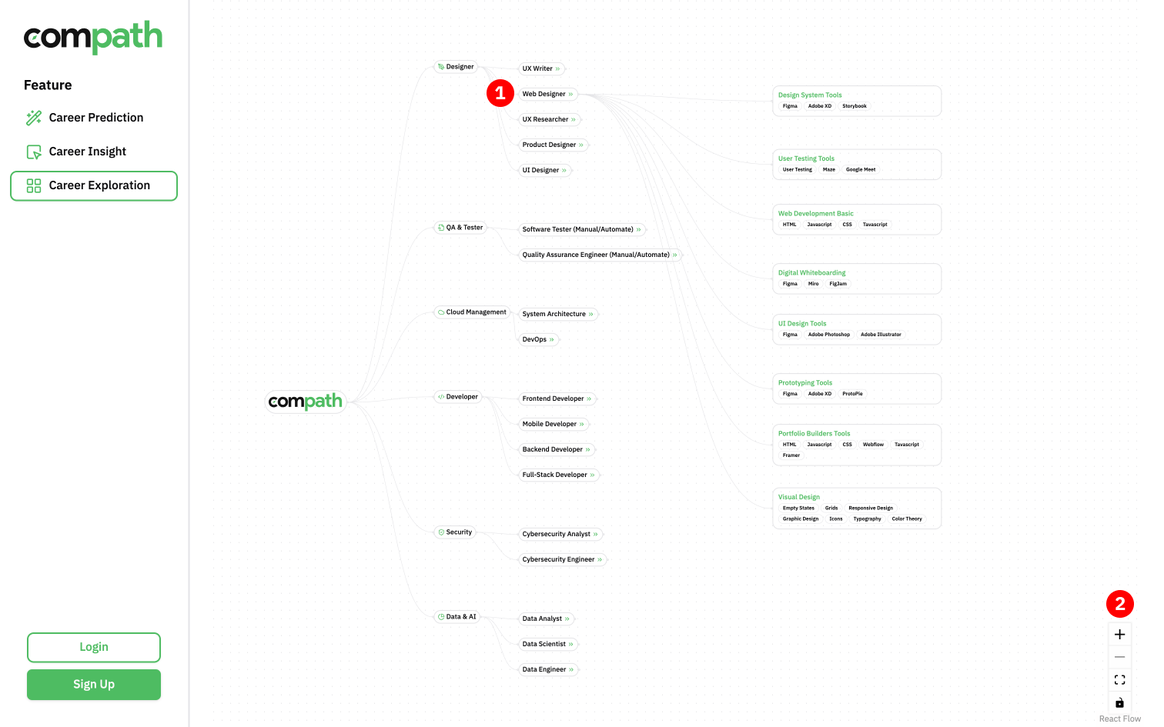
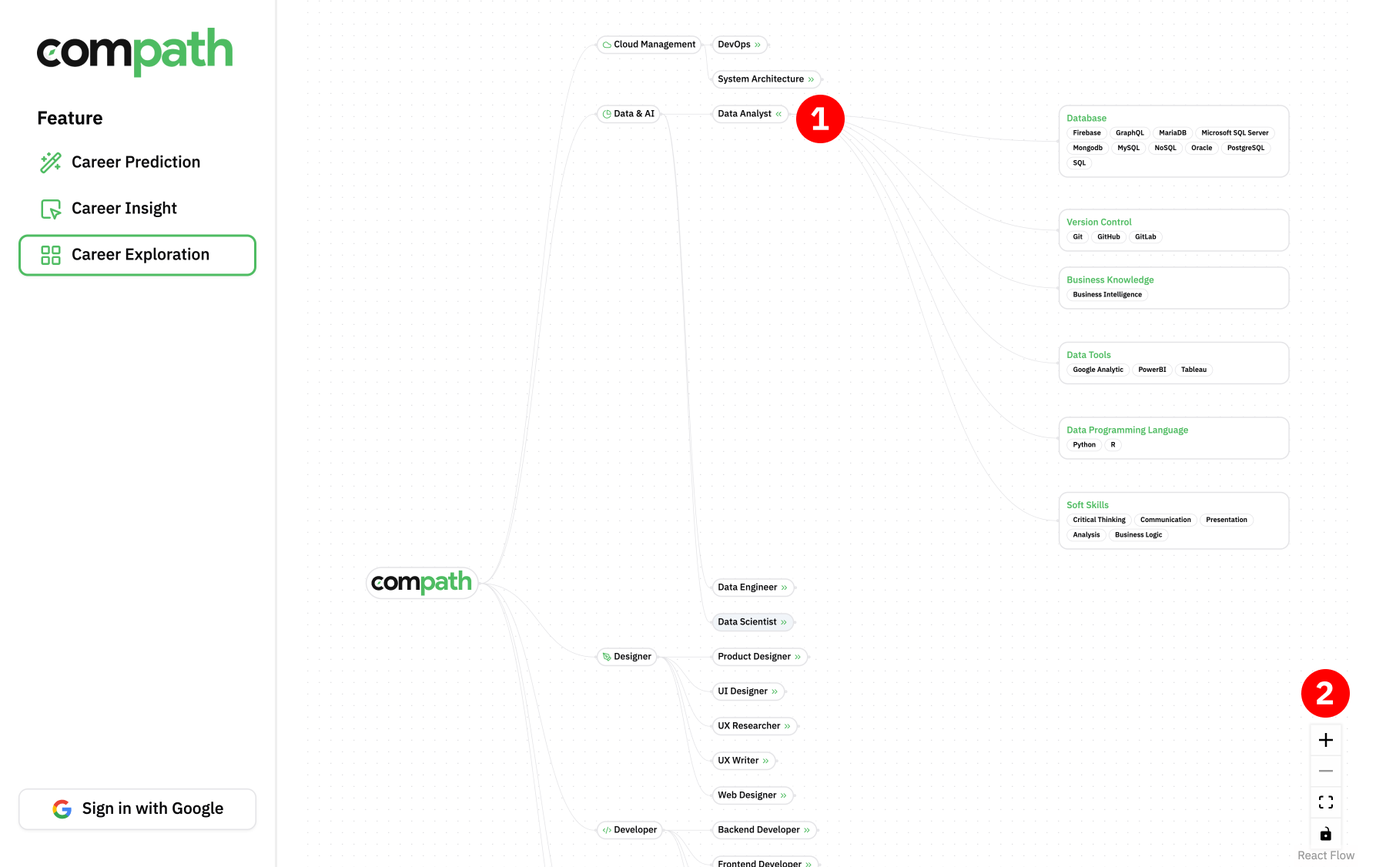
UT and TU

diff --git a/sections/usabilityTesting.tex b/sections/usabilityTesting.tex
@@ -121,7 +121,49 @@
               \fbox{\includegraphics[width=14cm]{./figure/UT/ScriptUT.png}}
               \caption{รูปแสดงบทพูดสำหรับการดำเนินการทดสอบ}\label{fig:ScriptUT}
           \end{figure}
-    \item \textbf{การวัดผลเชิงปริมาณ} : \href{https://forms.gle/cRmAQGtgpfCHbK5u8}{แบบสอบถามเพื่อวัดผลเชิงปริมาณ}
+    \item \textbf{การวัดผลเชิงปริมาณ} การวัดผลเชิงปริมาณมีผู้เข้าร่วมการประเมินทั้งหมด 70 คน แบ่งเป็นแต่ละชั้นปี ดังรูป \ref{fig:UserRatio}  โดยผู้เข้ารวมการประเมินได้ทดลองใช้งานเว็บแอปพลิเคชันและทำ\href{https://forms.office.com/r/CRHVxtCC4t}{แบบสอบถามเพื่อวัดผลเชิงปริมาณ}
+    \begin{figure}[H]\centering
+        \fbox{\includegraphics[width=14cm]{./figure/UT/UserRatio.png}}
+        \caption{รูปแสดงจำนวนและอัตรส่วนผู้เข้าร่วมการประเมิน}\label{fig:UserRatio}
+    \end{figure}
+    \begin{table}[H]
+            \caption{ตารางแสดงจำนวนและอัตราส่วนของผู้เข้าร่วมการประเมิน}
+            \label{tab:UserRatio}
+            \begin{tabular}{|l|r|r|}
+            \hline
+            \textbf{ปีการศึกษา} & \multicolumn{1}{l|}{\textbf{จำนวนผู้เข้าร่วมการประเมิน}} & \multicolumn{1}{l|}{\textbf{อัตรส่วนร้อยละ}} \\ \hline
+            ปี 1                & 6                                                          & 8.57\%                                         \\ \hline
+            ปี 2                & 18                                                         & 25.71\%                                         \\ \hline
+            ปี 3                & 15                                                         & 21.43\%                                         \\ \hline
+            ปี 4                & 22                                                         & 31.43\%                                         \\ \hline
+            อื่น ๆ              & 9                                                          & 12.86\%                                         \\ \hline
+            \end{tabular}
+        \end{table}
+        \par{ซึ่งได้ผลลัพท์การประเมินออกมาดังภาพ \ref{fig:QuantitativeResult} โดยมีเกณฑ์การประเมิน คือ [1 - ไม่เห็นด้วยอย่างยิ่ง, 5 - เห็นด้วยอย่างยิ่ง]}
+        \begin{figure}[H]\centering
+            \fbox{\includegraphics[width=14cm]{./figure/UT/QuantitativeResult.png}}
+            \caption{รูปแสดงผลลัพธ์การประเมินเว็บแอปพลิเคชัน Compath}\label{fig:QuantitativeResult}
+        \end{figure}
+        โดยนำคะแนนในแต่ละหัวข้อการประเมินมาเฉลี่ย โดยมีคะแนนเต็มอยู่ที่ 5 ดังตาราง ได้ดังนี้
+        \begin{table}[H]
+            \caption{ตารางแสดงผลลัพธ์การประเมินเว็บแอปพลิเคชัน Compath}
+            \label{tab:QuantitativeResult}
+            \begin{tabular}{|l|rrrrr|r|}
+            \hline
+            \multicolumn{1}{|c|}{\multirow{2}{*}{\textbf{หัวข้อการประเมิน}}}                                                          & \multicolumn{5}{c|}{\textbf{อัตราส่วนการให้คะแนน}}                                                                                                                      & \multicolumn{1}{c|}{\multirow{2}{*}{\textbf{คะแนนเฉลี่ย}}} \\ \cline{2-6}
+            \multicolumn{1}{|c|}{}                                                                                                    & \multicolumn{1}{c|}{\textbf{1}} & \multicolumn{1}{c|}{\textbf{2}} & \multicolumn{1}{c|}{\textbf{3}} & \multicolumn{1}{c|}{\textbf{4}} & \multicolumn{1}{c|}{\textbf{5}} & \multicolumn{1}{c|}{}                                      \\ \hline
+            เว็บไซต์นี้ใช้งานง่าย                                                                                                     & \multicolumn{1}{r|}{0\%}          & \multicolumn{1}{r|}{0\%}          & \multicolumn{1}{r|}{5.7\%}        & \multicolumn{1}{r|}{22.9\%}       & 71.4\%                            & 4.66                                                       \\ \hline
+            เว็บไซต์นี้ง่ายต่อการเข้าถึงข้อมูลต่าง ๆ                                                                                  & \multicolumn{1}{r|}{0\%}          & \multicolumn{1}{r|}{0\%}          & \multicolumn{1}{r|}{5.7\%}        & \multicolumn{1}{r|}{35.7\%}       & 58.6\%                            & 4.51                                                       \\ \hline
+            ข้อมูลต่าง ๆ บนเว็บไซต์นี้ดูมีความน่าเชื่อถือ                                                                             & \multicolumn{1}{r|}{0\%}          & \multicolumn{1}{r|}{1.4\%}        & \multicolumn{1}{r|}{17.1\%}       & \multicolumn{1}{r|}{44.3\%}       & 37.1\%                            & 4.18                                                       \\ \hline
+            \begin{tabular}[c]{@{}l@{}}หากคุณต้องการรู้ว่าเรซูเมของคุณเหมาะกับสายอาชีพอะไร\\  คุณจะลองเข้ามาเว็บไซต์นี้\end{tabular}  & \multicolumn{1}{r|}{1.4\%}        & \multicolumn{1}{r|}{2.9\%}        & \multicolumn{1}{r|}{8.6\%}        & \multicolumn{1}{r|}{40\%}         & 47.1\%                            & 4.26                                                       \\ \hline
+            \begin{tabular}[c]{@{}l@{}}หากคุณต้องการจะพัฒนาเรซูเมให้เหมาะกับสายอาชีพที่สนใจ \\ คุณจะลองเข้ามาเว็บไซต์นี้\end{tabular} & \multicolumn{1}{r|}{0\%}          & \multicolumn{1}{r|}{0\%}          & \multicolumn{1}{r|}{11.4\%}       & \multicolumn{1}{r|}{41.4\%}       & 47.1\%                            & 4.34                                                       \\ \hline
+            \begin{tabular}[c]{@{}l@{}}หากคุณต้องการรู้จักอาชีพที่คุณสนใจมากขึ้น \\ คุณจะลองเข้ามาเว็บไซต์นี้\end{tabular}            & \multicolumn{1}{r|}{0\%}          & \multicolumn{1}{r|}{0\%}          & \multicolumn{1}{r|}{21.4\%}       & \multicolumn{1}{r|}{31.4\%}       & 47.1\%                            & 4.24                                                       \\ \hline
+            คุณพบว่าเว็บไซต์นี้มีความน่าสนใจ                                                                                          & \multicolumn{1}{r|}{0\%}          & \multicolumn{1}{r|}{0\%}          & \multicolumn{1}{r|}{1.4\%}        & \multicolumn{1}{r|}{25.7\%}       & 72.9\%                           & 4.71                                                       \\ \hline
+            เว็บไซต์นี้มีรูปแบบที่เรียบง่ายและสบายตา                                                                                  & \multicolumn{1}{r|}{0\%}          & \multicolumn{1}{r|}{0\%}          & \multicolumn{1}{r|}{0\%}          & \multicolumn{1}{r|}{11.4\%}       & 88.6\%                            & 4.88                                                       \\ \hline
+            \textbf{คะแนนเฉลี่ยรวม}                                                                                                   & \multicolumn{1}{l|}{}           & \multicolumn{1}{l|}{}           & \multicolumn{1}{l|}{}           & \multicolumn{1}{l|}{}           & \multicolumn{1}{l|}{}           & \textbf{4.47}                                              \\ \hline
+            \end{tabular}
+            \end{table}
+
 \end{enumerate}
 \subsection{การดำเนินการทดสอบ}
 \begin{enumerate}
@@ -131,7 +173,7 @@
               \item \textbf{ไม่ชี้นำระหว่างทำการทดสอบ} เพื่อให้การทดสอบเปรียบเสมือนการใช้งานจริงมากที่สุด
               \item \textbf{ไม่อธิบายการใช้งาน} เพื่อทดสอบการใช้งานของผู้ใช้โดยไม่มีการสอนวิธีการใช้มาก่อน
           \end{enumerate}
-    \item \textbf{การจดบันทึกระหว่างการทดสอบ}
+    \item \textbf{การจดบันทึกระหว่างการทดสอบ} โดยหลังจากที่ผู้ทดสอบทำการใช้งานเว็บแอปพลิเคชันเรียบร้อบแล้ว จะมีการถามคำถามเพื่อเก็บข้อมูลเพิ่มเติมจากผู้ใช้และจดบันทึกเพื่อนำไปวิเคราะห์ปัญหาที่เกิดขึ้นระหว่างการใช้งานเว็บแอปพลิเคชัน ดังรูป \ref{fig:NoteTaking}
           \begin{figure}[H]\centering
               \fbox{\includegraphics[width=14cm]{./figure/UT/NoteTaking.png}}
               \caption{รูปแสดงการจดบันทึกระหว่างการทดสอบ}\label{fig:NoteTaking}
@@ -139,17 +181,17 @@
 \end{enumerate}
 \subsection{วิเคราะห์ผลการทดสอบ}
 \begin{enumerate}
-    \item \textbf{เก็บรวมรวมปัญหาระหว่างการทดสอบ} โดยแบ่งปัญหาออกเป็นของแต่ละฟีเจอร์ ดังนี้
+    \item \textbf{เก็บรวมรวมปัญหาระหว่างการทดสอบ} โดยแบ่งปัญหาออกเป็นของแต่ละฟีเจอรดเพื่อให้ง่ายต่อการแยกประเภทของปัญหา ดังรูป \ref{fig:GateringIssue}
           \begin{figure}[H]\centering
               \fbox{\includegraphics[width=14cm]{./figure/UT/GateringIssue.png}}
               \caption{รูปแสดงการจดบันทึกปัญหาที่พบ}\label{fig:GateringIssue}
           \end{figure}
-    \item \textbf{จัดประเภทของปัญหา}
+    \item \textbf{จัดประเภทของปัญหา} โดยจะจัดประเภทของปัญหาที่เกิดขึ้นระหว่างการทำแบบทดสอบเพื่อให้สามารถเห็นความถี่ของปัญหาที่เกิดขึ้นได้ง่ายมากยิ่งขึ้น ดังรูป \ref{fig:Groping}
           \begin{figure}[H]\centering
               \fbox{\includegraphics[width=14cm]{./figure/UT/Groping.png}}
               \caption{รูปแสดงการจัดประเภทของปัญหา}\label{fig:Groping}
           \end{figure}
-    \item \textbf{นิยามประเภทของปัญหา}
+    \item \textbf{นิยามประเภทของปัญหา} โดยจะนิยามประเภทของปัญหาเพื่อให้สามารถเข้าใจปัญหาที่เกิดขึ้นและสามารถคิดวิธีแก้ปัญหาออกมาได้ ดังรูป \ref{fig:CreateTheme}
           \begin{figure}[H]\centering
               \fbox{\includegraphics[width=14cm]{./figure/UT/CreateTheme.png}}
               \caption{รูปแสดงการนิยามประเภทของปัญหา}\label{fig:CreateTheme}
@@ -177,12 +219,12 @@
                         \item Node ของทักษะทับกัน
                     \end{itemize}
           \end{enumerate}
-    \item \textbf{ลำดับความสำคัญของปัญหาพี่พบ}
+    \item \textbf{ลำดับความสำคัญของปัญหาพี่พบ} โดยจะจัดลำดับความสำคัญของปัญหาที่เกิดขึ้นจาก 2 ปัจจัย คือ ความสำคัญของปัญหา และความถี่ที่เกิดขึ้นของปัญหา ดังรูป \ref{fig:PrioritizeUT}
           \begin{figure}[H]\centering
               \fbox{\includegraphics[width=14cm]{./figure/UT/PrioritizeUT.png}}
               \caption{รูปแสดงการเรียงลำดับความสำคัญของปัญหาพี่พบ}\label{fig:PrioritizeUT}
           \end{figure}
-    \item \textbf{คำแนะนำสำหรับปัญหาที่พบ}
+    \item \textbf{คำแนะนำสำหรับปัญหาที่พบ} โดยการแนะนำแนวทางการแก้ไขปัญหาที่พบและระบุความยากของการแก้ไขปัญหา ดังตาราง \ref{tab:recommendationsUT}
           \begin{table}[H]
               \caption{แนะนำแนวทางวิธีการแก้ไขปัญหา}
               \label{tab:recommendationsUT}
@@ -203,4 +245,9 @@
                                                       & ไม่รู้ว่ากด Expand ได้                  & Career Exploration & สร้าง tooltips สำหรับการใช้งาน                        & ปานกลาง                  \\ \hline
               \end{tabularx}
           \end{table}
+    \item \textbf{ลำดับความสำคัญของคำแนะนำ} โดยจะเรียงลำดับคำแนะนำแนวทางการแก้ไขปัญหาจาก 2 ปัจจัย คือ เป็นประโยชน์กับผู้ใช้งานและความยากในการแก้ไขปัญหา ดังรูป \ref{fig:PriRec}
+        \begin{figure}[H]\centering
+            \fbox{\includegraphics[width=14cm]{./figure/UT/PriRec.png}}
+            \caption{รูปแสดงการเรียงลำดับความสำคัญของปัญหาพี่พบ}\label{fig:PriRec}
+        \end{figure}
 \end{enumerate}

diff --git a/sections/softwareTutorial.tex b/sections/softwareTutorial.tex
@@ -1,6 +1,6 @@
 \section{การใช้งานแอปพลิเคชัน}
 \subsection{การใช้งานหน้า Career Prediction}
-ผู้ใช้สามารถเริ่มทำนายสายอาชีพได้จากการกดไปทำนายสายอาชีพ (1) ดังรูป \ref{fig:start-CP} ดังนี้
+ผู้ใช้สามารถเริ่มทำนายสายอาชีพได้จากการกด กรอกข้อมูล (1) หรือ อัปโหลดไฟล์ (2) ดังรูป \ref{fig:start-CP} ดังนี้
 \begin{figure}[H]\centering
     \fbox{\includegraphics[width=12cm]{./figure/tutorial-picture/start-CP.png}}
     \caption{รูปแสดงหน้าหลักของหน้าทำนายสายอาชีพ}\label{fig:start-CP}
@@ -21,19 +21,24 @@
 โดยมีเงื่อนไขว่าผู้ใช้จำเป็นต้องกรอกให้ครบทั้ง 3 ส่วน จึงจะสามารถเริ่มการทำนายสายอาชีพได้ ถ้าหากกรอกไม่ครบระบบจะแสดงข้อความให้กรอกข้อมูลให้ครบดังรูป \ref{fig:warning-CP}
 \begin{figure}[H]\centering
     \fbox{\includegraphics[width=12cm]{./figure/tutorial-picture/warning-CP.png}}
-    \caption{รูปแสดงการแจ้งเตื่อนเมื่อผู้ใช้กรอกข้อมูลในการทำนายไม่ครบถ้วน}\label{fig:warning-CP}
+    \caption{รูปแสดงการแจ้งเตื่อนเมื่อผู้ใช้กรอกข้อมูลไม่ครบถ้วน}\label{fig:warning-CP}
+\end{figure}
+และจำเป็นจะต้องกรอกข้อมูลเป็นภาษาอังฤษเท่านั้น ถ้าหากกรอกเป็นภาษาอื่นจะแสดงข้อความให้กรอกเป็นภาษาอังกฤษเท่านั้นดังรูป \ref{fig:warningTH-CP}
+\begin{figure}[H]\centering
+    \fbox{\includegraphics[width=12cm]{./figure/tutorial-picture/warningTH-CP.png}}
+    \caption{รูปแสดงการแจ้งเตื่อนเมื่อผู้ใช้กรอกข้อมูลเป็นภาษาอื่นที่ไม่ใช้ภาษาอังกฤษ}\label{fig:warningTH-CP}
 \end{figure}
 หลังจากผู้ใช้กรอกข้อมูลครบถ้วน ผู้ใช้จำเป็นต้องกดยอมรับข้อตกลงและเงื่อนไขการใช้งาน (1) เพื่อยินยอมการเก็บข้อมูลที่ผู้ใช้กรอก จึงจะสามารถเริ่มทำนายสายอาชีพได้ โดยจะเริ่มทำนายสายอาชีพเมื่อผู้ใช้กดเริ่มทำนาย (2) ดังรูป \ref{fig:accept-CP}
 \begin{figure}[H]\centering
     \fbox{\includegraphics[width=12cm]{./figure/tutorial-picture/accept-CP.png}}
     \caption{รูปแสดงการยอมรับข้อตกลงการเก็บข้อมูลและเริ่มการทำนายสายอาชีพ}\label{fig:accept-CP}
 \end{figure}
-จากนั้นระบบจะแสดงอาชีพที่เหมาะสมโดยอ้างอิงจากข้อมูลที่ผู้ใช้กรอกมา และแสดงข้อมูลพื้นฐานของสายอาชีพที่ทำนายได้ รวมถึงผู้ใช้ยังสามารถดูข้อมูลเชิงลึกของสายอาชีพดังรูป \ref{fig:home-CI} ได้จาการกดดูเพิ่มเติม (1) และยังสามารถบันทึก (2) และแก้ไข (3) การทำนายสายอาชีพได้ดังรูป \ref{fig:viewmore-CP} 
+จากนั้นระบบจะแสดงอาชีพที่เหมาะสมโดยอ้างอิงจากข้อมูลที่ผู้ใช้กรอกมา และแสดงข้อมูลพื้นฐานของสายอาชีพที่ทำนายได้ รวมถึงผู้ใช้ยังสามารถดูข้อมูลเชิงลึกของสายอาชีพดังรูป \ref{fig:home-CI} ได้จาการกดดูข้อมูลเชิงลึก (1) และยังสามารถกลับไปแก้ไขข้อมูลได้ (2) ดังรูป \ref{fig:viewmore-CP} 
 \begin{figure}[H]\centering
     \fbox{\includegraphics[width=12cm]{./figure/tutorial-picture/viewmore-CP.png}}
     \caption{รูปแสดงหน้าผลการทำนายสายอาชีพ}\label{fig:viewmore-CP}
 \end{figure}
-โดยเมื่อผู้ใช้บันทึกผลการทำนายสายอาชีพแล้วระบบจะแสดงการ์ดที่ทำนายไว้ เพื่อให้ผู้ใช้สามารถดูข้อมูลต่าง ๆ ที่เคยทำนายไว้ได้ รวมถึงสามารถเปิดเมนู (1) เพื่อแก้ไข (2) และลบ (3) การ์ดที่เคยทำนายสายอาชีพไว้ได้ดังรูป \ref{fig:cardhistory-CP} 
+โดยหลังจากที่ผู้ใช้ทำการทำนายสายอาชีพเรียบร้อยแล้ว ระบบจะแสดงประวัติการทำนายขอผู้ใช้ ทำให้สามารถดูข้อมูลเชิงลึกของสายอาชีพดังรูป \ref{fig:home-CI} ได้จาการกดดูข้อมูลเชิงลึก (1) และสามารถลบประวัติการทำนาย (2) ดังรูป \ref{fig:cardhistory-CP} 
 \begin{figure}[H]\centering
     \fbox{\includegraphics[width=12cm]{./figure/tutorial-picture/cardhistory-CP.png}}
     \caption{รูปแสดงหน้าหลักของหน้าทำนายสายอาชีพที่มีประวัติการทำนายแล้ว}\label{fig:cardhistory-CP}
@@ -64,17 +69,21 @@
     \fbox{\includegraphics[width=12cm]{./figure/tutorial-picture/skillaction-CI.png}}
     \caption{รูปแสดงการใช้งานในส่วนทักษะ}\label{fig:skillaction-CI}
 \end{figure}
-ผู้ใช้สามารถเลือกดูข้อมูลเชิงลึกจากประวัติการทำนายจากเมนูการ์ดสายอาชีพ (1) โดยจะแสดงการ์ดที่เคยถูกทำนายรวมถึงเวลาและวันที่ที่ถูกทำนาย(2) และผู้ใช้สามารถกดเพื่อไปสร้างการ์ดทำนายใหม่ได้จากเมนู (3) ดังรูป \ref{fig:cardhistory-CI}
+ผู้ใช้สามารถเลือกดูข้อมูลเชิงลึกจากประวัติการทำนายจากเมนูการ์ดสายอาชีพ (1) โดยจะแสดงการ์ดที่เคยถูกทำนายรวมถึงเวลาและวันที่ที่ถูกทำนาย (2) และผู้ใช้สามารถกดเพื่อไปสร้างการ์ดทำนายใหม่ได้จากเมนู (3) ดังรูป \ref{fig:cardhistory-CI}
 \begin{figure}[H]\centering
     \fbox{\includegraphics[width=12cm]{./figure/tutorial-picture/cardhistory-CI.png}}
-    \caption{รูปแสดงการใช้งานเลือกการ์ดสายอาชีพเพื่อดูข้อมูลเชิงลึก}\label{fig:cardhistory-CI}
+    \caption{รูปแสดงการใช้งานการเลือกการ์ดสายอาชีพเพื่อดูข้อมูลเชิงลึก}\label{fig:cardhistory-CI}
 \end{figure}
-
+ผู้ใช้สามารถเปรียบเทียบข้อมูลที่กรอกกับสายอาชีพอื่น ๆ ได้จากการเลือกเปรียบเทียบสายอาชีพ (1) โดยเมื่อเลือกสายอาชีพที่เปรียบเทียบ (2) ข้อมูลด้านล่างจะเปลี่ยนเป็นของสายอาชีพที่เปรียบเทียบทั้งหมด และสามารถยกเลิกการเปรียบเทียบได้ (3) ดังรูป \ref{fig:compare-CI}
+\begin{figure}[H]\centering
+    \fbox{\includegraphics[width=12cm]{./figure/tutorial-picture/compare-CI.png}}
+    \caption{รูปแสดงการใช้งานการเปรียบเทียบสายอาชีพเพื่อดูข้อมูลเชิงลึก}\label{fig:compare-CI}
+\end{figure}
 \subsection{การใช้งานหน้า Career Exploration}
 ผู้ใช้สามารถดูสายอาชีพต่าง ๆ ได้ดังภาพ \ref{fig:info-CE} - \ref{fig:home-CE} ดังนี้
 \begin{figure}[H]\centering
     \fbox{\includegraphics[width=12cm]{./figure/tutorial-picture/info-CE.png}}
-    \caption{รูปแสดงการเริ่มทำนายสายอาชีพ}\label{fig:info-CE}
+    \caption{รูปแสดงสายอาชีพทั้งหมดในหน้า Career Exploration}\label{fig:info-CE}
 \end{figure}
 โดยข้อมูลหน้านี้จะแบ่งออกเป็น 4 ขั้น ดังรูป \ref{fig:info-CE} ดังนี้
 \begin{enumerate}
@@ -87,5 +96,16 @@
 โดยผู้ใช้ยังสามารถเลือกดูทักษะที่ใช้ของอาชีพอื่น ๆ ได้จากการกดที่ชื่ออาชีพที่ต้องการ (1) รวมถึงสามารถเพิ่มลดขนาดหน้าจอได้จากปุ่ม + - (2) ดังรูป \ref{fig:home-CE}
 \begin{figure}[H]\centering
     \fbox{\includegraphics[width=12cm]{./figure/tutorial-picture/home-CE.png}}
-    \caption{รูปแสดงการเริ่มทำนายสายอาชีพ}\label{fig:home-CE}
+    \caption{รูปแสดงการใช้งานหน้า Career Exploration}\label{fig:home-CE}
+\end{figure}
+\subsection{การลงทะเบียนเข้าใช้งานด้วย Google Account}
+ผู้ใช้สามารถละทะเบียนเข้าใช้งานหรือเข้าสู้ระบบได้จากการกด Sign in with Google (1) ดังรูป \ref{fig:login-CP}
+\begin{figure}[H]\centering
+    \fbox{\includegraphics[width=12cm]{./figure/tutorial-picture/login-CP.png}}
+    \caption{รูปแสดงการลงชื่อเข้าใช้}\label{fig:login-CP}
+\end{figure}
+ผู้ใช้สามารถกดออกจากระบบ (1) ดังรูป \ref{fig:logout-CP}
+\begin{figure}[H]\centering
+    \fbox{\includegraphics[width=12cm]{./figure/tutorial-picture/logout-CP.png}}
+    \caption{รูปแสดงการออกจากระบบ}\label{fig:logout-CP}
 \end{figure}
